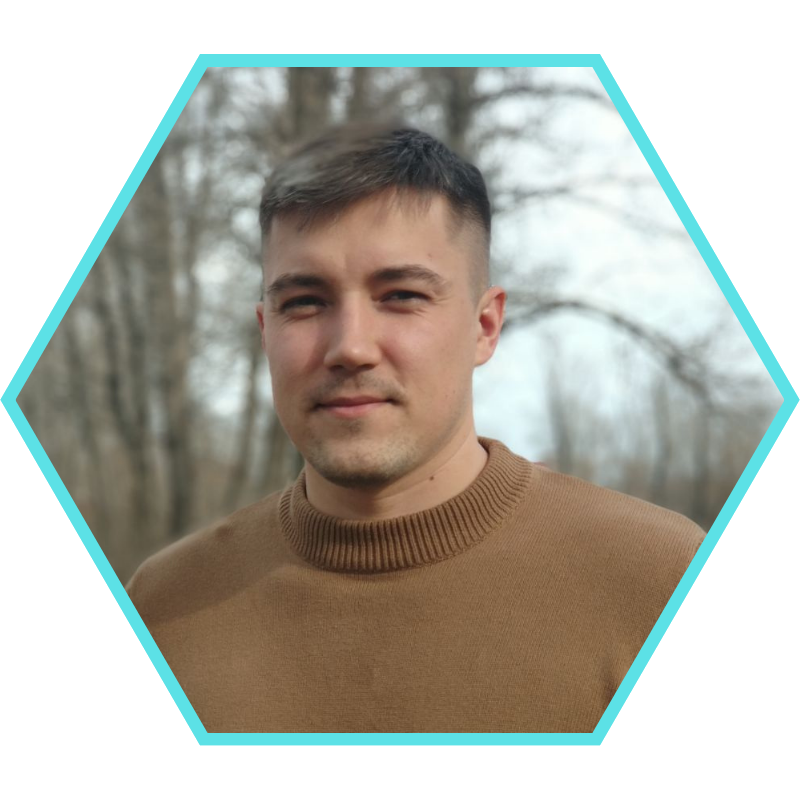
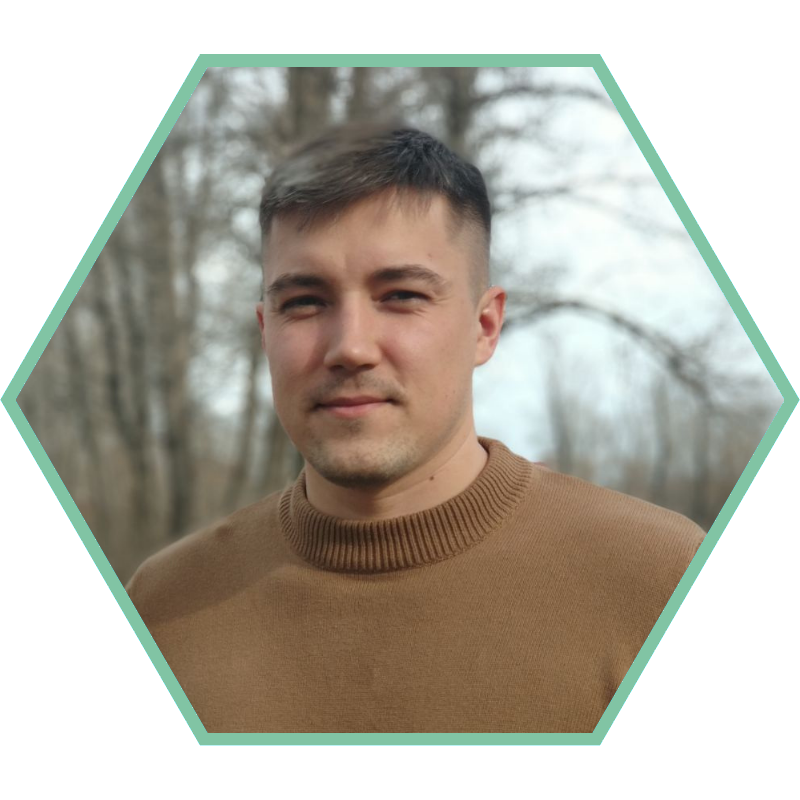
changed styles

diff --git a/src/projects/project/Project.tsx b/src/projects/project/Project.tsx
@@ -20,7 +20,7 @@ const Project: React.FC<ProjectPropsType> = ({title, style, description, demoUrl
                         variant="contained"
                         size={"small"}
                         style={{
-                            backgroundColor: "rgb(4,194,201)"
+                            backgroundColor: "rgb(129,196,164)"
                         }}
                 >Demo</Button>
                 <Button className={s.button} target={"_blank"}
@@ -28,7 +28,7 @@ const Project: React.FC<ProjectPropsType> = ({title, style, description, demoUrl
                         variant="contained"
                         size={"small"}
                         style={{
-                            backgroundColor: "rgb(4,194,201)"
+                            backgroundColor: "rgb(129,196,164)"
                         }}>Code</Button>
             </div>
             <h3>{title}</h3>

diff --git a/src/nav/Nav.tsx b/src/nav/Nav.tsx
@@ -13,10 +13,10 @@ type TabsItemType = {
     id: string
 }
 const tabs: TabsType = [
-    {name: "About", color: "rgb(4,194,201)", id: "#about",},
-    {name: "Skills", color: "rgb(4,194,201)", id: "#skills",},
-    {name: "Projects", color: "rgb(4,194,201)", id: "#projects",},
-    {name: "Contacts", color: "rgb(4,194,201)", id: "#contacts",},
+    {name: "About", color: "rgb(129,196,164)", id: "#about",},
+    {name: "Skills", color: "rgb(129,196,164)", id: "#skills",},
+    {name: "Projects", color: "rgb(129,196,164)", id: "#projects",},
+    {name: "Contacts", color: "rgb(129,196,164)", id: "#contacts",},
 ];
 
 const duration = 0.3;

diff --git a/src/contacts/Contacts.module.scss b/src/contacts/Contacts.module.scss
@@ -53,19 +53,16 @@
     align-items: center;
 }
 .button {
-    border: 2px solid #fff;
-    background: rgb(4,194,201);
-    box-sizing: inherit;
+    border: 2px solid;
+    background: $itemsColor;
+
     cursor: pointer;
-    display: inline-block;
-    font-size: 13pt;
     padding: 10px 20px;
     transition: all 0.5s;
-    @include text($titleFontFamily, 14pt, uppercase, .1rem, $textColor);
+    @include text($titleFontFamily, 14pt, uppercase, .1rem, $textSecondColor);
 }
 .button:hover {
-
-    background: rgb(3, 145, 161);
+    background: rgb(104, 154, 132);
     color: #FFFFFF;
 }
 @media screen and (max-width: 850px) {

diff --git a/src/common/styles/sass/variables.scss b/src/common/styles/sass/variables.scss
@@ -1,6 +1,7 @@
 $bgColorDark: linear-gradient(54deg, rgba(37, 37, 37, 0.95) 34%, rgba(86, 86, 86, 0.95));
 $bgColorLight: linear-gradient(54deg,rgba(74,76,179,.95) 34%,hsla(0,34%,71%,.95));
 $bgColor: linear-gradient(200deg,rgba(74,76,179,.95) 34%,hsla(0,34%,71%,.95));
+$bgColorBrown: rgb(184,150,125);
 //$bgImg: url(../../../img/img_bg_main.jpg);
 
 $textColor: #29292a;
@@ -8,6 +9,8 @@ $textSecondColor: #ffffff;
 
 $bgBarColor: #29292a;
 $bgBarColorDark: #ffffff;
+
+$itemsColor: rgb(129,196,164);
 
 $titleFontFamily: 'Wastebased', bolt;
 

diff --git a/src/projects/Projects.tsx b/src/projects/Projects.tsx
@@ -3,9 +3,9 @@ import style from '../common/styles/Container.module.css'
 import s from './Projects.module.scss'
 import Project from "./project/Project";
 import Title from "../common/components/titile/Title";
-import todoImg from '../img/todo.png'
-import socialImg from '../img/social.png'
-import counterImg from '../img/counter.png'
+import todoImg from '../img/todo-b.png';
+import socialImg from '../img/social-b.png';
+import counterImg from '../img/counter-b.png';
 
 const Projects = () => {
     const social = {

diff --git a/src/contacts/Contacts.module.css b/src/contacts/Contacts.module.css
@@ -56,23 +56,20 @@
 }
 
 .button {
-  border: 2px solid #fff;
-  background: #04c2c9;
-  box-sizing: inherit;
+  border: 2px solid;
+  background: #81c4a4;
   cursor: pointer;
-  display: inline-block;
-  font-size: 13pt;
   padding: 10px 20px;
   transition: all 0.5s;
   font-family: "Wastebased", bolt;
   font-size: 14pt;
   text-transform: uppercase;
   letter-spacing: 0.1rem;
-  color: #29292a;
+  color: #ffffff;
 }
 
 .button:hover {
-  background: #0391a1;
+  background: #689a84;
   color: #FFFFFF;
 }
 

diff --git a/src/footer/Footer.tsx b/src/footer/Footer.tsx
@@ -13,7 +13,7 @@ const Footer = () => {
     const styleIcon = {
         width: 50,
         height: 50,
-        backgroundColor: "rgb(4,194,201)",
+        backgroundColor: "rgb(129,196,164)",
         borderRadius: 2,
         scale: 0.7
     }

diff --git a/src/projects/project/Project.module.scss b/src/projects/project/Project.module.scss
@@ -3,7 +3,7 @@
 
 .project {
   width: 350px;
-  background: linear-gradient(54deg, rgb(4,194,201) 34%, rgb(86, 86, 86));
+  background: rgb(129,196,164);
   display: flex;
   flex-direction: column;
   align-items: center;

diff --git a/src/common/components/icons/SuperIcons.module.scss b/src/common/components/icons/SuperIcons.module.scss
@@ -6,7 +6,7 @@
   height: 100%;
   z-index: 0;
   .hexagon {
-    background-color: rgb(4,194,201);
+    background-color: rgb(129,196,164);
     //background-color: #a4a4a4;
     display: inline-block;
     height: 100%;

diff --git a/src/projects/project/Project.module.css b/src/projects/project/Project.module.css
@@ -1,6 +1,6 @@
 .project {
   width: 350px;
-  background: linear-gradient(54deg, #04c2c9 34%, #565656);
+  background: #81c4a4;
   display: flex;
   flex-direction: column;
   align-items: center;

diff --git a/src/index.css b/src/index.css
@@ -23,4 +23,5 @@ code {
   url("./common/fonts/wastebased.otf") format("otf"),
   url("./common/fonts/wastebased.svg") format("svg");
   font-weight: bold;
+  font-size: small;
 }

diff --git a/src/common/components/icons/SuperIcons.module.css b/src/common/components/icons/SuperIcons.module.css
@@ -6,7 +6,7 @@
   z-index: 0;
 }
 .hexWrap .hexagon {
-  background-color: #04c2c9;
+  background-color: #81c4a4;
   display: inline-block;
   height: 100%;
   width: 57.735%;
